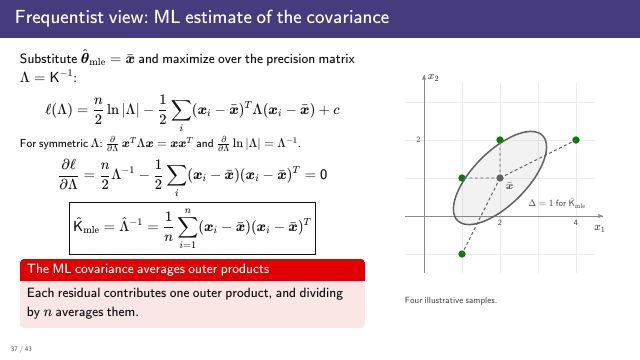
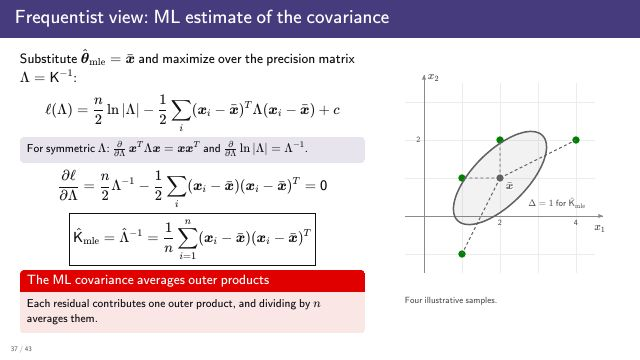
PML Chapter 4 deck: conditioning figures relabelled with p(x2), p(x2 | x1) and the joint along the slice; slide 31 closing question; slides 36-42 revised (derivative rules boxed, bias proof in a drawer, narration trimmed)

Changed region(s): [[0.0312, 0.3667, 0.5938, 0.9167]]

diff --git a/docs/teaching/epl/slides/30-1-multivariate/index.html b/docs/teaching/epl/slides/30-1-multivariate/index.html
@@ -612,6 +612,7 @@ ul.needs .tags { flex: 0 0 62px; white-space: nowrap; padding-top: 1px; }
 <section id="sec-cond" data-map="-335,980">
   <h2>Conditional distribution of a bivariate Gaussian</h2>
   <fig name="cond" init="rho=0.5 x1=0" style="zoom:0.8"></fig>
+  <knob param="x1" min="-2.5" max="2.5" step="0.1">$x_1$</knob>
   <column>
     <p><alert>Question:</alert> What is the conditional distribution of $X_2$ if we know $X_1=x_1$?</p>
     <p>First, let's see this visually and then we will do the derivation.<br>Here $\bmu=\bzero$ and $\mK=\begin{pmatrix}1&0.5\\0.5&1\end{pmatrix}$. Fix $X_1=x_1$ and renormalize the joint density along that slice.</p>
@@ -635,11 +636,11 @@ ul.needs .tags { flex: 0 0 62px; white-space: nowrap; padding-top: 1px; }
     <p class="dk1">Mean $\rho x_1=0.5\,x_1$: 0, 0.5 and 1 for $x_1=0,1,2$.</p>
     <p class="dk2">Variance $1-\rho^2=1-0.25=0.75$, the same for every $x_1$.</p>
   </drawer>
-  <notes>Recall students' opening guesses. Contrast conditioning with marginalization: integrate over all x1 to recover the dashed marginal. Conditioning at an exact continuous value uses a conditional density, not a positive-probability event.</notes>
+  <notes>Recall students' opening guesses. Contrast conditioning with marginalization: integrate over all x1 to recover the blue marginal. Conditioning at an exact continuous value uses a conditional density, not a positive-probability event.</notes>
   <narration>
-    <say>Conditioning is how an observation sharpens a prediction. Take the running model, with mean zero and covariance K: ones on the diagonal and one half off it. Suppose we observe the first coordinate. What is the distribution of the second one now? Geometrically, we take the slice of the joint density along the observed value, the green line on the left, and rescale it so it integrates to one. Next to the cloud, the dashed blue curve is the marginal of X two, what we believe before observing anything. The red curve is the conditional density given x one equals zero: still centred at zero, but narrower, with variance zero point seven five.</say>
-    <say>Now observe x one equals one. The slice moves to the right, and the conditional density moves up with it: its mean is now one half, while its variance stays at zero point seven five.</say>
-    <say>At x one equals two, the conditional mean is one, and the variance is still zero point seven five. That is the whole effect of conditioning here: the mean moves to one half times the observed value, and the variance drops from one to zero point seven five, whatever value we observe. Observing X one helps because the two coordinates are correlated; with zero correlation, every slice would return the marginal. The next slide derives both numbers.</say>
+    <say>Conditioning is how an observation sharpens a prediction. Take the running model, with mean zero and covariance K: ones on the diagonal and one half off it. Suppose we observe the first coordinate. What is the distribution of the second one now? First we see the answer in the picture, and on the next slide we derive it. Geometrically, we take the slice of the joint density along the observed value, the green line on the left, and rescale it so it integrates to one. Next to the cloud, the solid blue curve is the marginal of X two, what we believe before observing anything. The dashed green curve is the joint density along the slice at x one equals zero. Its area is p of x one, not one, so we divide it by p of x one, and the result is the red curve, the conditional density: still centred at zero, but narrower than the marginal. The table records its mean, zero, and its variance, zero point seven five.</say>
+    <say>Now observe x one equals one. The slice moves to the right, and both the dashed green curve and the red curve move up with it. The green curve is lower than before, because x one equals one is less likely than zero, and the rescaling makes up the difference: the red curve's mean is now one half, and its width has not changed.</say>
+    <say>At x one equals two, the joint density along the slice is so small that the dashed green curve almost lies on the axis, yet after rescaling the red curve is centred at one, again with the same width. So in the picture the mean moves by one half for each unit of x one, and the variance stays at zero point seven five, below the marginal's one, whatever value we observe. Observing X one helps because the two coordinates are correlated; with zero correlation, every slice would return the marginal. Use the slider below the plot to try other values of x one. The next slide derives this pattern for any correlation.</say>
   </narration>
 </section>
 
@@ -662,7 +663,7 @@ ul.needs .tags { flex: 0 0 62px; white-space: nowrap; padding-top: 1px; }
   <notes>On the right, rho = 0.5 and x1 = 1: the formula gives N(0.5, 0.75), the red curve.</notes>
   <narration>
     <say>Now the derivation, for any correlation rho, in the standardized model where both coordinates have mean zero and variance one. Inverting K gives one over one minus rho squared times a matrix with ones on the diagonal and minus rho off it, so the joint density is proportional to the exponential in the box.</say>
-    <say>Fix x one and complete the square in x two. Everything that depends on x one alone becomes a constant, which the proportionality absorbs, and what remains is a Gaussian shape in x two centred at rho times x one.</say>
+    <say>Fix x one and complete the square in x two. Everything that depends on x one alone becomes a constant, which the proportionality absorbs, and what remains is a Gaussian shape in x two centred at rho times x one. On the right, the dashed green curve is the joint density along the slice, and the red curve is the same shape rescaled to area one.</say>
     <say>So given x one, X two is Gaussian with mean rho times x one and variance one minus rho squared. The mean moves with the observation, and the variance shrinks by a fraction rho squared, whatever value we observe. With rho equal to one half and x one equal to one, as on the right, that is a mean of one half and a variance of zero point seven five.</say>
   </narration>
 </section>
@@ -691,7 +692,7 @@ ul.needs .tags { flex: 0 0 62px; white-space: nowrap; padding-top: 1px; }
   </column>
   <notes>Live: move x1, then rho. Ask which control moves the peak and which also changes its width. At rho=0 the conditional equals the marginal.</notes>
   <narration>
-    <say wait>The previous slide derived the conditional distribution for any rho. Now keep the observation at x one equals two and change rho. Before stepping through, predict what moves the peak and what sets its width. With rho equal to minus one half, the cloud tilts down, and the conditional is centred at minus one with variance zero point seven five.</say>
+    <say wait>The previous slide derived the conditional distribution for any rho. Now keep the observation at x one equals two and change rho. First predict what moves the peak and what sets its width. With rho equal to minus one half, the cloud tilts down, and the conditional is centred at minus one with variance zero point seven five. The dashed green curve, the joint density along the slice, stays close to the axis, because x one equals two is a rare observation.</say>
     <say>With rho equal to zero, the cloud is round. The conditional is centred at zero with variance one: it coincides with the marginal, so observing X one tells us nothing about X two.</say>
     <say>At rho equal to one half, the peak moves up to one, and the variance is zero point seven five again, the same as for minus one half.</say>
     <say>With a strong correlation of zero point nine, the cloud is a narrow ridge. The conditional mean is one point eight, and the variance drops to zero point one nine: the observation now pins down x two quite precisely.</say>
@@ -743,8 +744,9 @@ ul.needs .tags { flex: 0 0 62px; white-space: nowrap; padding-top: 1px; }
       This is not a contradiction!
     </alertblock>
   </column>
-  <fig name="ms" init="L1=0 L2=0 sd=0"></fig>
-  <p class="caption" style="margin-left:40px;max-width:500px">Galton, F. (1886). Regression towards mediocrity in hereditary stature. <i>J. Anthropological Institute</i> 15, 246&ndash;263.</p>
+  <fig name="ms" init="L1=0 L2=0 sd=0" style="zoom:0.8"></fig>
+  <p class="caption" style="margin-left:32px;max-width:480px">Galton, F. (1886). Regression towards mediocrity in hereditary stature. <i>J. Anthropological Institute</i> 15, 246&ndash;263.</p>
+  <p pause class="under" style="margin:12px 0 0 32px;max-width:480px"><alert>Question:</alert> If $\rho$ is smaller, will the regression to the mean be more or less pronounced?</p>
   <drawer>
     <p>Standardize: $Z_X=(X-\mu_X)/\sigma_X$ and $Z_Y=(Y-\mu_Y)/\sigma_Y$ are jointly Gaussian with variance 1 and correlation $\rho$, so $\E[Z_Y\mid Z_X=z]=\rho z$. Observing $X=x$ is observing $Z_X=(x-\mu_X)/\sigma_X$:</p>
     \[\begin{aligned}\E[Y\mid X=x]&=\mu_Y+\sigma_Y\,\E\Big[Z_Y\,\Big|\,Z_X=\frac{x-\mu_X}{\sigma_X}\Big]\\&=\mu_Y+\rho\,\frac{\sigma_Y}{\sigma_X}\,(x-\mu_X).\end{aligned}\]
@@ -758,6 +760,7 @@ ul.needs .tags { flex: 0 0 62px; white-space: nowrap; padding-top: 1px; }
     <say wait>Now reverse the question. A daughter is one hundred sixty-nine centimetres tall. Should we predict that her mother is one hundred seventy-five? Decide before going on.</say>
     <say>Conditioning the other way gives one hundred sixty-six, only three centimetres above the average. The daughter is one standard deviation above the mean, and her predicted mother is half a standard deviation above it. The orange line on the right gives this prediction for every daughter's height.</say>
     <say>So a mother of one hundred seventy-five predicts a daughter of one hundred sixty-nine, and that daughter predicts a mother of one hundred sixty-six, not one hundred seventy-five. This is not a contradiction: the first prediction averages over the daughters of all mothers who are one hundred seventy-five, the second over the mothers of all daughters who are one hundred sixty-nine, and each average is pulled toward the mean. That is regression to the mean, in both directions. The dashed SD line, which matches standard deviations one for one, follows neither prediction.</say>
+    <say wait>A question to think about: if rho is smaller, will the regression to the mean be more or less pronounced?</say>
   </narration>
 </section>
 
@@ -822,7 +825,7 @@ ul.needs .tags { flex: 0 0 62px; white-space: nowrap; padding-top: 1px; }
   <narration>
     <say>Everything so far had one observed coordinate and one to predict. Often we observe several and predict several, such as a child's height and weight from both parents' measurements. We split the vector into the part to predict, a, and the part we observe, b, and split the mean and the covariance matrix the same way, as on the left. As long as the observed block's covariance is invertible, the conditional distribution is again Gaussian. Its mean starts at the mean of the predicted part and adds a correction proportional to how far the observation is from its own mean, with the factor K a b times K b b inverse playing the role of the slope. Its covariance starts at K a a and subtracts a term that measures how much the observation reduces our uncertainty.</say>
     <say>With one coordinate in each block, this is our running model: the correction factor is rho, one half, and the conditional variance is one minus rho squared, zero point seven five, the numbers we found at the start of this part.</say>
-    <say>So one update rule handles any number of observed coordinates. The conditional stays Gaussian, and the amount subtracted from the covariance is positive semidefinite, so observing more coordinates can only reduce our uncertainty.</say>
+    <say>So one update rule handles any number of observed coordinates. The conditional stays Gaussian, and the amount subtracted from the covariance is positive semidefinite, so observing more coordinates can only reduce our uncertainty. Concretely, take any weighted combination of the predicted coordinates. After conditioning on X b, its variance is the variance before minus a quantity that is never negative, so it goes down or stays the same. It stays the same only when the combination is uncorrelated with the observed coordinates. And since the conditional covariance does not depend on the observed values, this holds whatever we observe.</say>
   </narration>
 </section>
 
@@ -866,20 +869,20 @@ ul.needs .tags { flex: 0 0 62px; white-space: nowrap; padding-top: 1px; }
   <column>
     <p>Maximize over $\btheta$:</p>
     \[\ell(\btheta,\mK)=\frac n2\ln|\mK^{-1}|-\frac12\sum_{i}(\bx_i-\btheta)^T\mK^{-1}(\bx_i-\btheta)+c\]
-    <p class="small">For symmetric $\mK^{-1}$: $\frac{\partial}{\partial\btheta}(\bx-\btheta)^T\mK^{-1}(\bx-\btheta)=-2(\bx-\btheta)^T\mK^{-1}$.</p>
+    <block class="small">For symmetric $\mK^{-1}$: $\frac{\partial}{\partial\btheta}(\bx-\btheta)^T\mK^{-1}(\bx-\btheta)=-2(\bx-\btheta)^T\mK^{-1}$.</block>
     <div pause>
-      \[\begin{aligned}\frac{\partial\ell}{\partial\btheta}&=\sum_{i}(\bx_i-\btheta)^T\mK^{-1}=\bzero^T\\ \Rightarrow\quad&\boxed{\hat\btheta_{\mle}=\bar\bx=\frac1n\sum_{i=1}^n\bx_i}\end{aligned}\]
+      \[\begin{aligned}\frac{\partial\ell}{\partial\btheta}&=\sum_{i}(\bx_i-\btheta)^T\mK^{-1}=\bzero^T\\ \xRightarrow{\ \times\mK\ }\quad&\sum_{i}(\bx_i-\btheta)^T=\bzero^T\;\Rightarrow\;\boxed{\hat\btheta_{\mle}=\bar\bx=\frac1n\sum_{i=1}^n\bx_i}\end{aligned}\]
     </div>
     <alertblock pause="c=1" title="The center does not depend on $\mK$">
-      $\mK^{-1}$ is invertible, so the residuals (dashed) sum to $\bzero$. Here $\bar\bx=\frac14(8,4)^T=(2,1)^T$.
+      The residuals (dashed) sum to $\bzero$ for every $\mK$. Here $\bar\bx=\frac14(8,4)^T=(2,1)^T$.
     </alertblock>
   </column>
   <fig name="mle4" init="c=0 e=0"></fig>
   <p class="caption" style="margin-left:50px">Four illustrative samples.</p>
   <narration>
-    <say>Start with the mean. Only the second term depends on theta, so we differentiate it with the rule in small print, the vector version of the derivative of a square.</say>
-    <say>Setting the derivative to zero gives the answer in one line: the maximum likelihood estimate of the mean is x bar, the plain average of the data points.</say>
-    <say>Notice that K dropped out. The sum of residuals is multiplied by K inverse, which is invertible, so the residuals themselves must add up to zero, whatever K is. On the right, the dashed lines are those residuals, from the center x bar to each point. Our four points add up to eight in the first coordinate and four in the second, so x bar is two, one.</say>
+    <say>Start with the mean. Only the second term depends on theta, so we differentiate it with the rule in the box, the vector version of the derivative of a square.</say>
+    <say>Setting the derivative to zero says that the residuals, the differences between the data points and theta, add up to zero after each is multiplied by K inverse. K inverse is invertible, so multiplying both sides by K removes it, and the residuals themselves add up to zero. The point from which the residuals cancel is the average, so the maximum likelihood estimate of the mean is x bar.</say>
+    <say>K is gone from the answer: whatever the covariance, the estimate of the center is the plain average of the data points. On the right, the dashed lines are the residuals from x bar to each of the four points, and they cancel. The points add up to eight in the first coordinate and four in the second, so x bar is two, one.</say>
   </narration>
 </section>
 
@@ -888,13 +891,13 @@ ul.needs .tags { flex: 0 0 62px; white-space: nowrap; padding-top: 1px; }
   <column>
     <p>Substitute $\hat\btheta_{\mle}=\bar\bx$ and maximize over the precision matrix $\Lambda=\mK^{-1}$:</p>
     \[\ell(\Lambda)=\frac n2\ln|\Lambda|-\frac12\sum_{i}(\bx_i-\bar\bx)^T\Lambda(\bx_i-\bar\bx)+c\]
-    <p class="small">For symmetric $\Lambda$: <span class="dk1">$\frac{\partial}{\partial\Lambda}\,\bx^T\Lambda\bx=\bx\bx^T$</span> and <span class="dk2">$\frac{\partial}{\partial\Lambda}\ln|\Lambda|=\Lambda^{-1}$</span>.</p>
+    <block class="small">For symmetric $\Lambda$: <span class="dk1">$\frac{\partial}{\partial\Lambda}\,\bx^T\Lambda\bx=\bx\bx^T$</span> and <span class="dk2">$\frac{\partial}{\partial\Lambda}\ln|\Lambda|=\Lambda^{-1}$</span>.</block>
     <div pause>
       \[\frac{\partial\ell}{\partial\Lambda}=\frac n2\Lambda^{-1}-\frac12\sum_{i}(\bx_i-\bar\bx)(\bx_i-\bar\bx)^T=\mathsf 0\]
     </div>
     <div pause="e=1">
       \[\htmlClass{dk3}{\boxed{\hat\mK_{\mle}=\hat\Lambda^{-1}=\frac1n\sum_{i=1}^n(\bx_i-\bar\bx)(\bx_i-\bar\bx)^T}}\]
-      <alertblock title="The ML covariance averages outer products">Each residual contributes one outer product, and dividing by $n$ averages them.</alertblock>
+      <alertblock title="The ML covariance averages outer products" class="small">Each residual contributes one outer product, and dividing by $n$ averages them.</alertblock>
     </div>
   </column>
   <fig name="mle4" init="c=1 e=0"></fig>
@@ -910,7 +913,7 @@ ul.needs .tags { flex: 0 0 62px; white-space: nowrap; padding-top: 1px; }
   </drawer>
   <notes>Differentiating with respect to the precision matrix keeps both terms simple: the log-determinant gives its inverse and the quadratic form gives the outer product. Treating the entries of Lambda as free gives the same stationary point as imposing symmetry. The next slide computes the four outer products for these samples.</notes>
   <narration>
-    <say>Now the covariance. We plug in x bar for the mean and maximize over the covariance. The algebra is cleaner in terms of K inverse, called the precision matrix, lambda: the matrix version of the precision from Chapter 3. In terms of lambda, the log-likelihood has a log-determinant and a term that is linear in lambda, and the two derivative rules in small print handle them.</say>
+    <say>Now the covariance. We plug in x bar for the mean and maximize over the covariance. The algebra is cleaner in terms of K inverse, called the precision matrix, lambda: the matrix version of the precision from Chapter 3. In terms of lambda, the log-likelihood has a log-determinant and a term that is linear in lambda, and the two derivative rules in the box handle them.</say>
     <say>Setting the derivative to zero balances the two terms. The log-determinant contributes lambda inverse, which is K itself, and the quadratic term contributes, for each point, its residual times its own transpose.</say>
     <say>Solving gives the maximum likelihood covariance: the average over the points of each residual times its own transpose. In one dimension this is the average squared residual; for vectors the square becomes a column times a row, an outer product, so the estimate averages one matrix per point. The ellipse on the right is the fitted Gaussian at Mahalanobis distance one. The steps behind the two derivative rules are under Derivation in the toolbar.</say>
   </narration>
@@ -922,33 +925,29 @@ ul.needs .tags { flex: 0 0 62px; white-space: nowrap; padding-top: 1px; }
     <p>Residuals $\bx_i-\bar\bx$ of the four samples, and their outer products $(\bx_i-\bar\bx)(\bx_i-\bar\bx)^T$:</p>
     <fig name="outfly" init="f=0">
     <div class="pairs" style="gap:16px 34px;margin:6px 0 18px">
-      <div pause="k=1">$\textcolor{#087F80}{\begin{pmatrix}-1\\-2\end{pmatrix}}\ \mapsto\ \htmlClass{s1}{\textcolor{#087F80}{\begin{pmatrix}1&2\\2&4\end{pmatrix}}}$</div>
-      <div pause="k=2">$\textcolor{#B33362}{\begin{pmatrix}-1\\0\end{pmatrix}}\ \mapsto\ \htmlClass{s2}{\textcolor{#B33362}{\begin{pmatrix}1&0\\0&0\end{pmatrix}}}$</div>
-      <div pause="k=3">$\textcolor{#A0521B}{\begin{pmatrix}0\\1\end{pmatrix}}\ \mapsto\ \htmlClass{s3}{\textcolor{#A0521B}{\begin{pmatrix}0&0\\0&1\end{pmatrix}}}$</div>
-      <div pause="k=4">$\textcolor{#6A3D9A}{\begin{pmatrix}2\\1\end{pmatrix}}\ \mapsto\ \htmlClass{s4}{\textcolor{#6A3D9A}{\begin{pmatrix}4&2\\2&1\end{pmatrix}}}$</div>
+      <div>$\textcolor{#087F80}{\begin{pmatrix}-1\\-2\end{pmatrix}}\ \mapsto\ \htmlClass{s1}{\textcolor{#087F80}{\begin{pmatrix}1&2\\2&4\end{pmatrix}}}$</div>
+      <div>$\textcolor{#B33362}{\begin{pmatrix}-1\\0\end{pmatrix}}\ \mapsto\ \htmlClass{s2}{\textcolor{#B33362}{\begin{pmatrix}1&0\\0&0\end{pmatrix}}}$</div>
+      <div>$\textcolor{#A0521B}{\begin{pmatrix}0\\1\end{pmatrix}}\ \mapsto\ \htmlClass{s3}{\textcolor{#A0521B}{\begin{pmatrix}0&0\\0&1\end{pmatrix}}}$</div>
+      <div>$\textcolor{#6A3D9A}{\begin{pmatrix}2\\1\end{pmatrix}}\ \mapsto\ \htmlClass{s4}{\textcolor{#6A3D9A}{\begin{pmatrix}4&2\\2&1\end{pmatrix}}}$</div>
     </div>
     \[\begin{aligned}\htmlClass{gA}{\hat\mK_{\mle}}&\htmlClass{gA}{{}=\tfrac14\Big(}\htmlClass{d1}{\textcolor{#087F80}{\begin{pmatrix}1&2\\2&4\end{pmatrix}}}\htmlClass{gA}{+}\htmlClass{d2}{\textcolor{#B33362}{\begin{pmatrix}1&0\\0&0\end{pmatrix}}}\htmlClass{gA}{+}\htmlClass{d3}{\textcolor{#A0521B}{\begin{pmatrix}0&0\\0&1\end{pmatrix}}}\htmlClass{gA}{+}\htmlClass{d4}{\textcolor{#6A3D9A}{\begin{pmatrix}4&2\\2&1\end{pmatrix}}}\htmlClass{gA}{\Big)}\\&\htmlClass{gR}{{}=\tfrac14\begin{pmatrix}6&4\\4&6\end{pmatrix}=\begin{pmatrix}1.5&1\\1&1.5\end{pmatrix}}\end{aligned}\]
     </fig>
     <span pause="f=1"></span>
     <p pause="e=1" class="small">The two residuals along the tilt supply the off-diagonal 4. The fitted $\Delta=1$ ellipse follows the tilt.</p>
   </column>
-  <fig name="outer" init="k=0 e=0"></fig>
-  <notes>Each click adds one residual and its outer product. The next click moves the four products into the average.</notes>
+  <fig name="outer" init="k=4 e=0"></fig>
+  <notes>Entering, the four residuals arrive one after another beside their outer products. The click moves the four products into the average.</notes>
   <narration>
-    <say>Here is the computation for the four points. On the right, the center x bar is at two, one. Each click adds one residual, the arrow from the center to a point, together with its outer product on the left.</say>
-    <say>The first point sits one unit to the left of the center and two below, so its residual is minus one, minus two. Its outer product has the squares, one and four, on the diagonal, and the product of the two coordinates, two, off the diagonal. Both coordinates are negative, so that entry is positive.</say>
-    <say>The second residual, minus one, zero, points straight left. It adds variance to the first coordinate only, and nothing off the diagonal.</say>
-    <say>The third, zero, one, points straight up, so it adds variance to the second coordinate only.</say>
-    <say>The fourth points up and to the right, two, one. Its outer product has four and one on the diagonal and two off it, positive again, since both coordinates have the same sign.</say>
-    <say>Now the four matrices move into the average. Adding them gives six and six on the diagonal and four off it, and dividing by four gives one and a half on the diagonal and one off it.</say>
-    <say>Where does the covariance of one come from? Only the first and fourth residuals, the two along the tilt of the points, move both coordinates together, and they supply all of the off-diagonal four. The ellipse of the fitted Gaussian follows that tilt.</say>
+    <say>Here is the computation for the four points: the residuals, the arrows from x bar on the right, and their outer products on the left.</say>
+    <say>The outer products of the residuals are averaged, and the average is the maximum likelihood covariance.</say>
+    <say>The two residuals along the tilt supply the off-diagonal entries, so the fitted ellipse follows the tilt.</say>
   </narration>
 </section>
 
 <section>
   <h2>Frequentist view: bias of the ML covariance</h2>
   <column class="small">
-    <p>Residuals are measured from $\bar\bx$, which is fit to the same samples, so they run shorter than deviations from the true $\btheta^*$.</p>
+    <p>The samples are independent with true mean $\btheta^*$ and true covariance $\mK^*$. Residuals are measured from $\bar\bx$, which is fit to the same samples, so they run shorter than deviations from $\btheta^*$.</p>
     <div pause>
       \[\begin{aligned}&\sum_i(\bx_i-\bar\bx)(\bx_i-\bar\bx)^T\\&\quad=\sum_i(\bx_i-\btheta^*)(\bx_i-\btheta^*)^T-n(\bar\bx-\btheta^*)(\bar\bx-\btheta^*)^T\\&\quad\text{has mean }n\mK^*-n\cdot\tfrac1n\mK^*=(n-1)\,\mK^*.\end{aligned}\]
     </div>
@@ -957,15 +956,24 @@ ul.needs .tags { flex: 0 0 62px; white-space: nowrap; padding-top: 1px; }
       \[\boxed{\frac1{n-1}\sum_{i=1}^n(\bx_i-\bar\bx)(\bx_i-\bar\bx)^T}\]
     </div>
     <p pause="u=1">Here $\tfrac13\begin{pmatrix}6&4\\4&6\end{pmatrix}=\begin{pmatrix}2&4/3\\4/3&2\end{pmatrix}$: the same shape, a larger ellipse.</p>
-    <p pause class="small">If $n\le d$, the sample covariance is necessarily singular: a nonsingular Gaussian fit needs enough independent directions.</p>
+    <p pause class="small">For samples in $\mathbb R^d$ with $n\le d$, the sample covariance is necessarily singular: a nonsingular Gaussian fit needs enough independent directions.</p>
   </column>
   <fig name="bias" init="u=0"></fig>
+  <drawer>
+    <p class="dk1">Write $\bx_i-\bar\bx=(\bx_i-\btheta^*)-(\bar\bx-\btheta^*)$ and expand each outer product. Since $\sum_i(\bx_i-\btheta^*)=n(\bar\bx-\btheta^*)$, each of the two cross sums is $-n(\bar\bx-\btheta^*)(\bar\bx-\btheta^*)^T$, and the last term adds $n(\bar\bx-\btheta^*)(\bar\bx-\btheta^*)^T$:</p>
+    \[\htmlClass{dk1}{\begin{aligned}\sum_i(\bx_i-\bar\bx)(\bx_i-\bar\bx)^T&=\sum_i(\bx_i-\btheta^*)(\bx_i-\btheta^*)^T\\&\quad-n(\bar\bx-\btheta^*)(\bar\bx-\btheta^*)^T.\end{aligned}}\]
+    <p class="dk1">Each term of the first sum has mean $\cov(\bx_i)=\mK^*$, so the sum has mean $n\mK^*$.</p>
+    <p class="dk2">The second term: $\bar\bx-\btheta^*=\frac1n\sum_i(\bx_i-\btheta^*)$, so</p>
+    \[\htmlClass{dk2}{(\bar\bx-\btheta^*)(\bar\bx-\btheta^*)^T=\frac1{n^2}\sum_{i}\sum_{j}(\bx_i-\btheta^*)(\bx_j-\btheta^*)^T.}\]
+    <p class="dk2">For $i\neq j$ the samples are independent, so $\E\big[(\bx_i-\btheta^*)(\bx_j-\btheta^*)^T\big]=\E[\bx_i-\btheta^*]\,\E[\bx_j-\btheta^*]^T=\mathsf 0$. The $n$ terms with $i=j$ each have mean $\mK^*$:</p>
+    \[\htmlClass{dk2}{\E\big[(\bar\bx-\btheta^*)(\bar\bx-\btheta^*)^T\big]=\frac1{n^2}\cdot n\mK^*=\frac1n\mK^*.}\]
+  </drawer>
   <notes>The identity follows by writing x_i - xbar = (x_i - theta*) - (xbar - theta*) and expanding; the cross terms sum to -n(xbar - theta*)(xbar - theta*)^T. Cov(xbar) = K*/n for iid samples. With n = 4 the unbiased estimate is 4/3 times the ML estimate.</notes>
   <narration>
-    <say>Is this a good estimate? Chapter 2 asked the same question about the variance of one variable, and the answer carries over. The residuals are measured from x bar, which was fit to these same points, so x bar sits closer to them than the true mean, theta star, does. The residuals run short, and the estimate comes out too small on average.</say>
-    <say>The identity makes this exact. The sum of outer products around x bar equals the sum around the true mean, minus n times the outer product of x bar's own error. On average, the first part is n copies of the true covariance, and the second takes away one copy, because x bar has covariance K over n. That leaves n minus one copies.</say>
+    <say>Is this a good estimate? Chapter 2 asked the same question about the variance of one variable, and the answer carries over. The samples are independent, with true mean theta star and true covariance K star. The residuals are measured from x bar, which was fit to these same points, so x bar sits closer to them than theta star does. The residuals run short, and the estimate comes out too small on average.</say>
+    <say>The identity makes this exact. The sum of outer products around x bar equals the sum around the true mean, minus n times the outer product of x bar's own error. On average, the first part is n copies of the true covariance, and the second takes away one copy, because x bar has covariance K over n. That leaves n minus one copies. Both steps are worked out under Derivation in the toolbar.</say>
     <say>So dividing by n gives n minus one over n times the true covariance, a little too small, just as for the variance in Chapter 2. Dividing by n minus one instead gives an unbiased estimate.</say>
-    <say>With our four points we divide by three instead of four, so the matrix grows by four thirds: two on the diagonal and four thirds off it. On the right, the dashed ellipse has the same shape and tilt, only larger.</say>
+    <say>With our four points we divide by three instead of four, so the matrix grows by four thirds, and the dashed ellipse on the right has the same shape and tilt, only larger.</say>
     <say>One caution. With no more samples than dimensions, the residuals cannot point in every direction, because they add up to zero. The estimated covariance is then singular: some direction gets zero variance, as with the die counts in the first part, and the density formula, which needs K inverse, no longer applies.</say>
   </narration>
 </section>
@@ -976,18 +984,19 @@ ul.needs .tags { flex: 0 0 62px; white-space: nowrap; padding-top: 1px; }
   <div class="fbody" style="display:flex;flex-direction:column;justify-content:space-evenly">
     <block title="Unknown mean, known observation covariance $\mK$">
       \[\cpr{\bTheta\sim\cN(\bmu_0,\mS_0)},\qquad\clk{\bX_i\mid\bTheta\sim\cN(\bTheta,\mK)}\quad\text{conditionally iid}\]
+      Here $\mK$ is known, unlike in the ML estimate; only the mean is learned.
     </block>
     <div class="cards">
       <div class="altcard"><div class="al">One coordinate (Chapter 3)</div>
-        \[\cpo{\frac{1}{\tau_1^2}}=\cpr{\frac{1}{\tau_0^2}}+\clk{\frac{n}{\sigma^2}},\qquad
-          \cpo{\mu_1}=\cpo{\tau_1^2}\Big(\cpr{\frac{\theta_0}{\tau_0^2}}+\clk{\frac{n\bar y}{\sigma^2}}\Big)\]
+        \[\cpo{\frac{1}{\tau_n^2}}=\cpr{\frac{1}{\tau_0^2}}+\clk{\frac{n}{\sigma^2}},\qquad
+          \cpo{\hat\theta_n}=\cpo{\tau_n^2}\Big(\cpr{\frac{\mu_0}{\tau_0^2}}+\clk{\frac{n\bar x}{\sigma^2}}\Big)\]
       </div>
       <div class="altcard"><div class="al">A vector</div>
         \[\htmlClass{dk1}{\cpo{\mS_n^{-1}}=\cpr{\mS_0^{-1}}+\clk{n\mK^{-1}}},\qquad
           \htmlClass{dk2}{\cpo{\hat\btheta_n}=\cpo{\mS_n}\big(\cpr{\mS_0^{-1}\bmu_0}+\clk{n\mK^{-1}\bar\bx}\big)}\]
       </div>
     </div>
-    <p>The posterior is $\cpo{\cN(\hat\btheta_n,\mS_n)}$. <span class="dk3">The data mean has covariance $\mK/n$; its precision is $n\mK^{-1}$.</span></p>
+    <p>The posterior is $\cpo{\cN(\hat\btheta_n,\mS_n)}$. Its precision is the prior precision plus <span class="dk3">the data precision $n\mK^{-1}$ (the data mean has covariance $\mK/n$)</span>, and its mean combines the prior mean and the data mean, each weighted by its precision.</p>
     <alertblock pause title="Learning adds precision matrices">$\mK$ is the spread of one observation, and $\mS_n$ the uncertainty about the mean. This is Chapter 3's Gaussian update, with a separate uncertainty structure for different directions.</alertblock>
   </div>
   <drawer>
@@ -1002,7 +1011,7 @@ ul.needs .tags { flex: 0 0 62px; white-space: nowrap; padding-top: 1px; }
   </drawer>
   <notes>Observation covariance K describes individual measurements; Sn describes uncertainty about the mean. Both covariance matrices are positive definite here.</notes>
   <narration>
-    <say>Now the Bayesian view. The unknown mean is a random vector, theta, with a Gaussian prior, in blue, and given theta, the observations are independent Gaussians around it with a known covariance K, in green. On the left is the one-coordinate update from Chapter 3: precisions add, and the posterior mean weights the prior mean and the data mean by their precisions. On the right is the same update for a vector. The data enter through x bar, whose covariance is K over n, so its precision is n times K inverse.</say>
+    <say>Now the Bayesian view. The unknown mean is a random vector, theta, with a Gaussian prior, in blue. Given theta, the observations are independent Gaussians around it with covariance K, in green. Unlike in the maximum likelihood estimate, K is known here, and only the mean is learned. The update works as in Chapter 3, shown on the left for one coordinate. The new precision is the prior's precision plus the data's precision. The data enter through x bar, whose covariance is K over n, so the data's precision is n times K inverse. The new mean combines the prior mean and the data mean, each weighted by its precision. On the right is the same update for a vector, with precision matrices in place of numbers.</say>
     <say>So learning adds precision matrices. Keep the two covariances apart: K is the spread of a single observation, while S n is our remaining uncertainty about the mean, and it shrinks as data arrive. Because these are matrices, the update can trust the data more in some directions than in others, as the next example shows.</say>
   </narration>
 </section>
@@ -1031,8 +1040,8 @@ ul.needs .tags { flex: 0 0 62px; white-space: nowrap; padding-top: 1px; }
   </drawer>
   <notes>The animation adds the data precision gradually, from none to all of it; the dotted path is the posterior center along the way. Precisions per coordinate: 1 + 1/4 = 5/4 and 1/4 + 1 = 5/4.</notes>
   <narration>
-    <say wait>Here is an example to try before the answer. The prior, in blue, is centered at zero, with variance one in the first coordinate and four in the second, so its ellipse on the right is tall. The data mean, in green, is at two, two, with variance four in the first coordinate and one in the second, so its ellipse is wide. Which source is more precise in each coordinate, and where should the posterior land?</say>
-    <say>In the first coordinate the prior is four times as precise as the data, and in the second the data are four times as precise as the prior. So the posterior mean stays near the prior in the first coordinate, at zero point four, and moves near the data in the second, to one point six. Its covariance is zero point eight in both coordinates, a circle. The dotted path traces the posterior center as data precision is added; it bends away from the straight dashed line between the two centers because each coordinate weighs the prior and the data differently.</say>
+    <say wait>Here is an example to try before the answer. On the right, the prior's blue ellipse is tall and the data's green ellipse is wide, so each source is precise in a different coordinate. Which source is more precise in each coordinate, and where should the posterior land?</say>
+    <say>The posterior trusts each source where it is more precise: it stays near the prior in the first coordinate and moves near the data in the second. The dotted path traces the posterior center as data precision is added. It bends away from the straight dashed line between the two centers because each coordinate weighs the prior and the data differently.</say>
   </narration>
 </section>
 
@@ -1058,9 +1067,9 @@ ul.needs .tags { flex: 0 0 62px; white-space: nowrap; padding-top: 1px; }
     <p class="dk2">$n=4$: $(\mS_n)_{11}=\frac12$ and $(\mS_n)_{22}=\frac1{17/4}=\frac4{17}$, so $\hat\btheta_n=(\frac12\cdot2,\ \frac4{17}\cdot8)^T=(1,\,\frac{32}{17})^T$.</p>
   </drawer>
   <narration>
-    <say>What happens as more data come in? Keep the same prior, let each observation have covariance K, four in the first coordinate and one in the second, and suppose the data mean stays at two, two while n grows. With one observation we are back to the previous example, with the posterior mean at zero point four, one point six.</say>
-    <say>With four observations, the covariance of the data mean shrinks to K over four, so the green ellipse on the right gets smaller, and the posterior moves toward the data. Its mean is one in the first coordinate and thirty-two seventeenths, about one point eight eight, in the second, and its variances drop to one half and four seventeenths.</say>
-    <say>As n grows, the data precision grows in both coordinates, and the posterior heads toward the data mean. The second coordinate, where the data were already more precise, stays closer to it all along. Drag the n slider below the plot to watch the posterior approach the data.</say>
+    <say>What happens as more data come in? Keep the same prior and the same data mean, and let the number of observations grow. With one observation we are back to the previous example.</say>
+    <say>With four observations the data mean is more precise, so the green ellipse on the right shrinks, and the posterior moves toward the data in both coordinates.</say>
+    <say>As n grows, the data precision keeps growing, and the posterior heads toward the data mean. The second coordinate, where the data were already more precise, stays closer to it all along. Drag the n slider below the plot to watch the posterior approach the data.</say>
   </narration>
 </section>
 
@@ -1075,15 +1084,10 @@ ul.needs .tags { flex: 0 0 62px; white-space: nowrap; padding-top: 1px; }
       <div>Conditioning uses observed coordinates to shift the mean and reduce uncertainty about the remaining coordinates.</div></div>
     <div class="sumrow"><svg class="icon" data-icon="bayes" width="110" height="64"></svg>
       <div>Maximum likelihood learns the center and shape from data. Bayesian mean estimation combines prior and data precision.</div></div>
-    <block title="Exit question" style="margin-top:6px">
-      For jointly Gaussian $X_1,X_2$ with $\rho=0$, what changes in the distribution of $X_2$ when we observe $X_1$?
-      <span pause>Nothing: the two variables are independent, so the conditional equals the marginal.</span>
-    </block>
     <p><alert>Next:</alert> Linear regression, Chapter 5.</p>
   </div>
   <narration>
-    <say wait>To pull the chapter together: the mean locates a cloud of points, and the covariance measures its spread and tilt; both follow simple rules under linear maps. For a Gaussian, the covariance sets the shape of the density, with elliptical contours and the Mahalanobis distance measured against them. Conditioning shifts the mean of the unobserved coordinates and shrinks their uncertainty. From data, maximum likelihood estimates the center and the shape, and the Bayesian view combines prior and data precision. To close, the exit question: if two jointly Gaussian variables have correlation zero, what changes about X two when we observe X one?</say>
-    <say>Nothing changes. With zero correlation, jointly Gaussian variables are independent, so the conditional distribution of X two equals its marginal. Next, in Chapter 5, comes linear regression, which picks up the regression lines we met in conditioning.</say>
+    <say>To pull the chapter together: the mean locates a cloud of points, and the covariance measures its spread and tilt; both follow simple rules under linear maps. For a Gaussian, the covariance sets the shape of the density, with elliptical contours and the Mahalanobis distance measured against them. Conditioning shifts the mean of the unobserved coordinates and shrinks their uncertainty. From data, maximum likelihood estimates the center and the shape, and the Bayesian view combines prior and data precision. Next, in Chapter 5, comes linear regression, which picks up the regression lines we met in conditioning.</say>
   </narration>
 </section>
 

diff --git a/docs/teaching/epl/slides/30-1-multivariate/figs.js b/docs/teaching/epl/slides/30-1-multivariate/figs.js
@@ -251,8 +251,8 @@ FIGS.tilt = {
     const st = { close: true, fill: 'prior', fo: 0.12, color: 'prior', w: 2.5 };
     g.plot(TLT).path([...bell, [R, 0], [-R, 0]], st);
     g.plot(TLS).path([...bell.map(([t, d]) => [d, t]), [0, -R], [0, R]], st);
-    P.label('m1', '<span class="cap">marginal of $X_1$</span>', [R * 0.4, R], 'l', { dy: -80, color: 'prior' });
-    P.label('m2', '<span class="cap">marginal of $X_2$</span>', [R, -R], 'tl', { dx: 40, dy: 14, color: 'prior' });
+    P.label('m1', '<span class="cap">marginal</span> $p(x_1)$', [R * 0.4, R], 'l', { dy: -80, color: 'prior' });
+    P.label('m2', '<span class="cap">marginal</span> $p(x_2)$', [R, -R], 'tl', { dx: 40, dy: 14, color: 'prior' });
     P.label('mn', 'both $\\cN(0,1)$', [R, -R], 'tl', { dx: 40, dy: 40, color: 'prior' });
     P.label('K', `$\\mK=\\begin{pmatrix}1&${fmt(p.rho)}\\\\${fmt(p.rho)}&1\\end{pmatrix}$`, [-R, R], 'tl', { dx: 6, dy: 8 });
   }
@@ -466,7 +466,8 @@ FIGS.mle4 = {
 // Residual colours, shared with the text of the outer-product slide.
 const RC = ['#087F80', '#B33362', '#A0521B', '#6A3D9A'];
 FIGS.outer = {
-  duration: 900, size: [480, 440],
+  enter: { k: 0 },   // entered forward, the four residuals arrive one after another
+  duration: 2400, size: [480, 440],
   draw(g, p) {
     const P = g.plot(FP);
     fourBase(P);
@@ -564,8 +565,9 @@ FIGS.bayesn = {
 };
 
 // ---------------------------------------------------------------- conditioning (from the 30-3-conditioning pilot)
-// Conditioning slides: the cloud with a vertical slice at x1, and the conditional
-// density of X2 on a side axis that shares the cloud's vertical x2 scale.
+// Conditioning slides: the cloud with a vertical slice at x1, and on a side axis that
+// shares the cloud's vertical x2 scale the marginal of X2, the joint density along the
+// slice and the conditional density of X2.
 const CP = frame2d(34, 30, 390, 3.2), SX0 = CP.X(3.2) + 44, SW = 165;   // density 1.0 = SW px
 const CS = box2d(SX0, CP.Y(3.2), SW, CP.S, 0, 1, -3.2, 3.2);   // the side axis: density across, x2 as in CP
 FIGS.cond = {
@@ -587,7 +589,7 @@ FIGS.cond = {
         S.text([t, -R], t, { dy: 24 });
       }
     });
-    S.param(t => [phi(t, 0, 1), t], { from: -R, to: R, n: 160, color: 'prior', w: 2.5, dash: '8 6' });
+    S.param(t => [phi(t, 0, 1), t], { from: -R, to: R, n: 160, color: 'prior', w: 2.5 });
     const curve = S.steps({}, -R, R, 200).map(t => [phi(t, m, v), t]);
     S.path([[0, -R], ...curve, [0, R]], { close: true, fill: 'post', fo: 0.15, color: 'none', w: null });
     S.path(curve, { color: 'post', w: 3 });
@@ -596,8 +598,13 @@ FIGS.cond = {
     g.line([S.X(0) + 62, P.Y(side * 2.35)], S.px([phi(1.6, 0, 1), side * 1.6]), { color: 'prior', w: 1.2, opacity: fade });
     S.label('dens', 'density', [1, -R], 'l', { dx: 32, color: '#444' });
     P.label('slice', `$x_1=${fmt(p.x1)}$`, [p.x1, -R], 't', { dy: 8, color: 'like' });
-    S.label('cond', `<span class="cap">conditional</span><br>$\\mathcal N(${fmt(m)},\\,${fmt(v)})$`, [pk, m], 'l', { dx: 12, color: 'post' });
-    S.label('marg', '<span class="cap">marginal</span> $\\mathcal N(0,1)$', [0, side * 2.35], 'l', { dx: 66, color: 'prior', opacity: fade });
+    S.label('cond', `<span class="cap">conditional</span><br>$p(x_2\\mid x_1=${fmt(p.x1)})$`, [pk, m], 'l', { dx: 12, color: 'post' });
+    S.label('marg', '<span class="cap">marginal</span> $p(x_2)$', [0, side * 2.35], 'l', { dx: 66, color: 'prior', opacity: fade });
+    // the joint density along the slice, p(x1) p(x2 | x1): the conditional before it is rescaled
+    const pj = phi(p.x1, 0, 1), ly = m - 1.05, lt = m - 0.6;
+    S.path(curve.map(([d, t]) => [pj * d, t]), { color: 'like', w: 2.5, dash: '8 6' });
+    g.line([S.X(0.5) - 4, S.Y(ly)], S.px([pj * phi(lt, m, v), lt]), { color: 'like', w: 1.2 });
+    S.label('joint', `<span class="cap">joint</span> $p(x_2,\\,x_1=${fmt(p.x1)})$`, [0.5, ly], 'l', { color: 'like' });
   }
 };
 

diff --git a/docs/teaching/epl/slides/shared/deck.js b/docs/teaching/epl/slides/shared/deck.js
@@ -675,8 +675,9 @@ function wireDrawers() {
 //   <fig name="mean" init="mu=0 b=0">       a figure and its initial state
 //   <column> … </column>                    a text column; figures and columns
 //                                           next to each other form a row, and a
-//                                           figure keeps the caption (p.caption)
-//                                           and sliders written right after it
+//                                           figure keeps the caption (p.caption),
+//                                           paragraphs of class "under" and sliders
+//                                           written right after it
 //   <block title="…">, <alertblock title="…">   blocks; class "small" sets the body small
 //   <knob param="rho" min="-0.9" max="0.9" step="0.05" digits="2">$\rho$</knob>
 //                                           a slider for the figure (for="name",
@@ -785,10 +786,10 @@ function expandSlides(slides) {
   });
 }
 // A run of figures and columns side by side becomes a row, each figure with
-// the caption and sliders written right after it.
+// the caption, the p.under paragraphs and the sliders written right after it.
 function rows(body) {
   const kids = [...body.children], isFig = k => k.matches('.fig'), isCol = k => k.matches('.col');
-  const trails = k => k.matches('p.caption, .knobs');
+  const trails = k => k.matches('p.caption, p.under, .knobs');
   for (let i = 0; i < kids.length;) {
     if (!isFig(kids[i]) && !isCol(kids[i])) { i++; continue; }
     const items = [];
